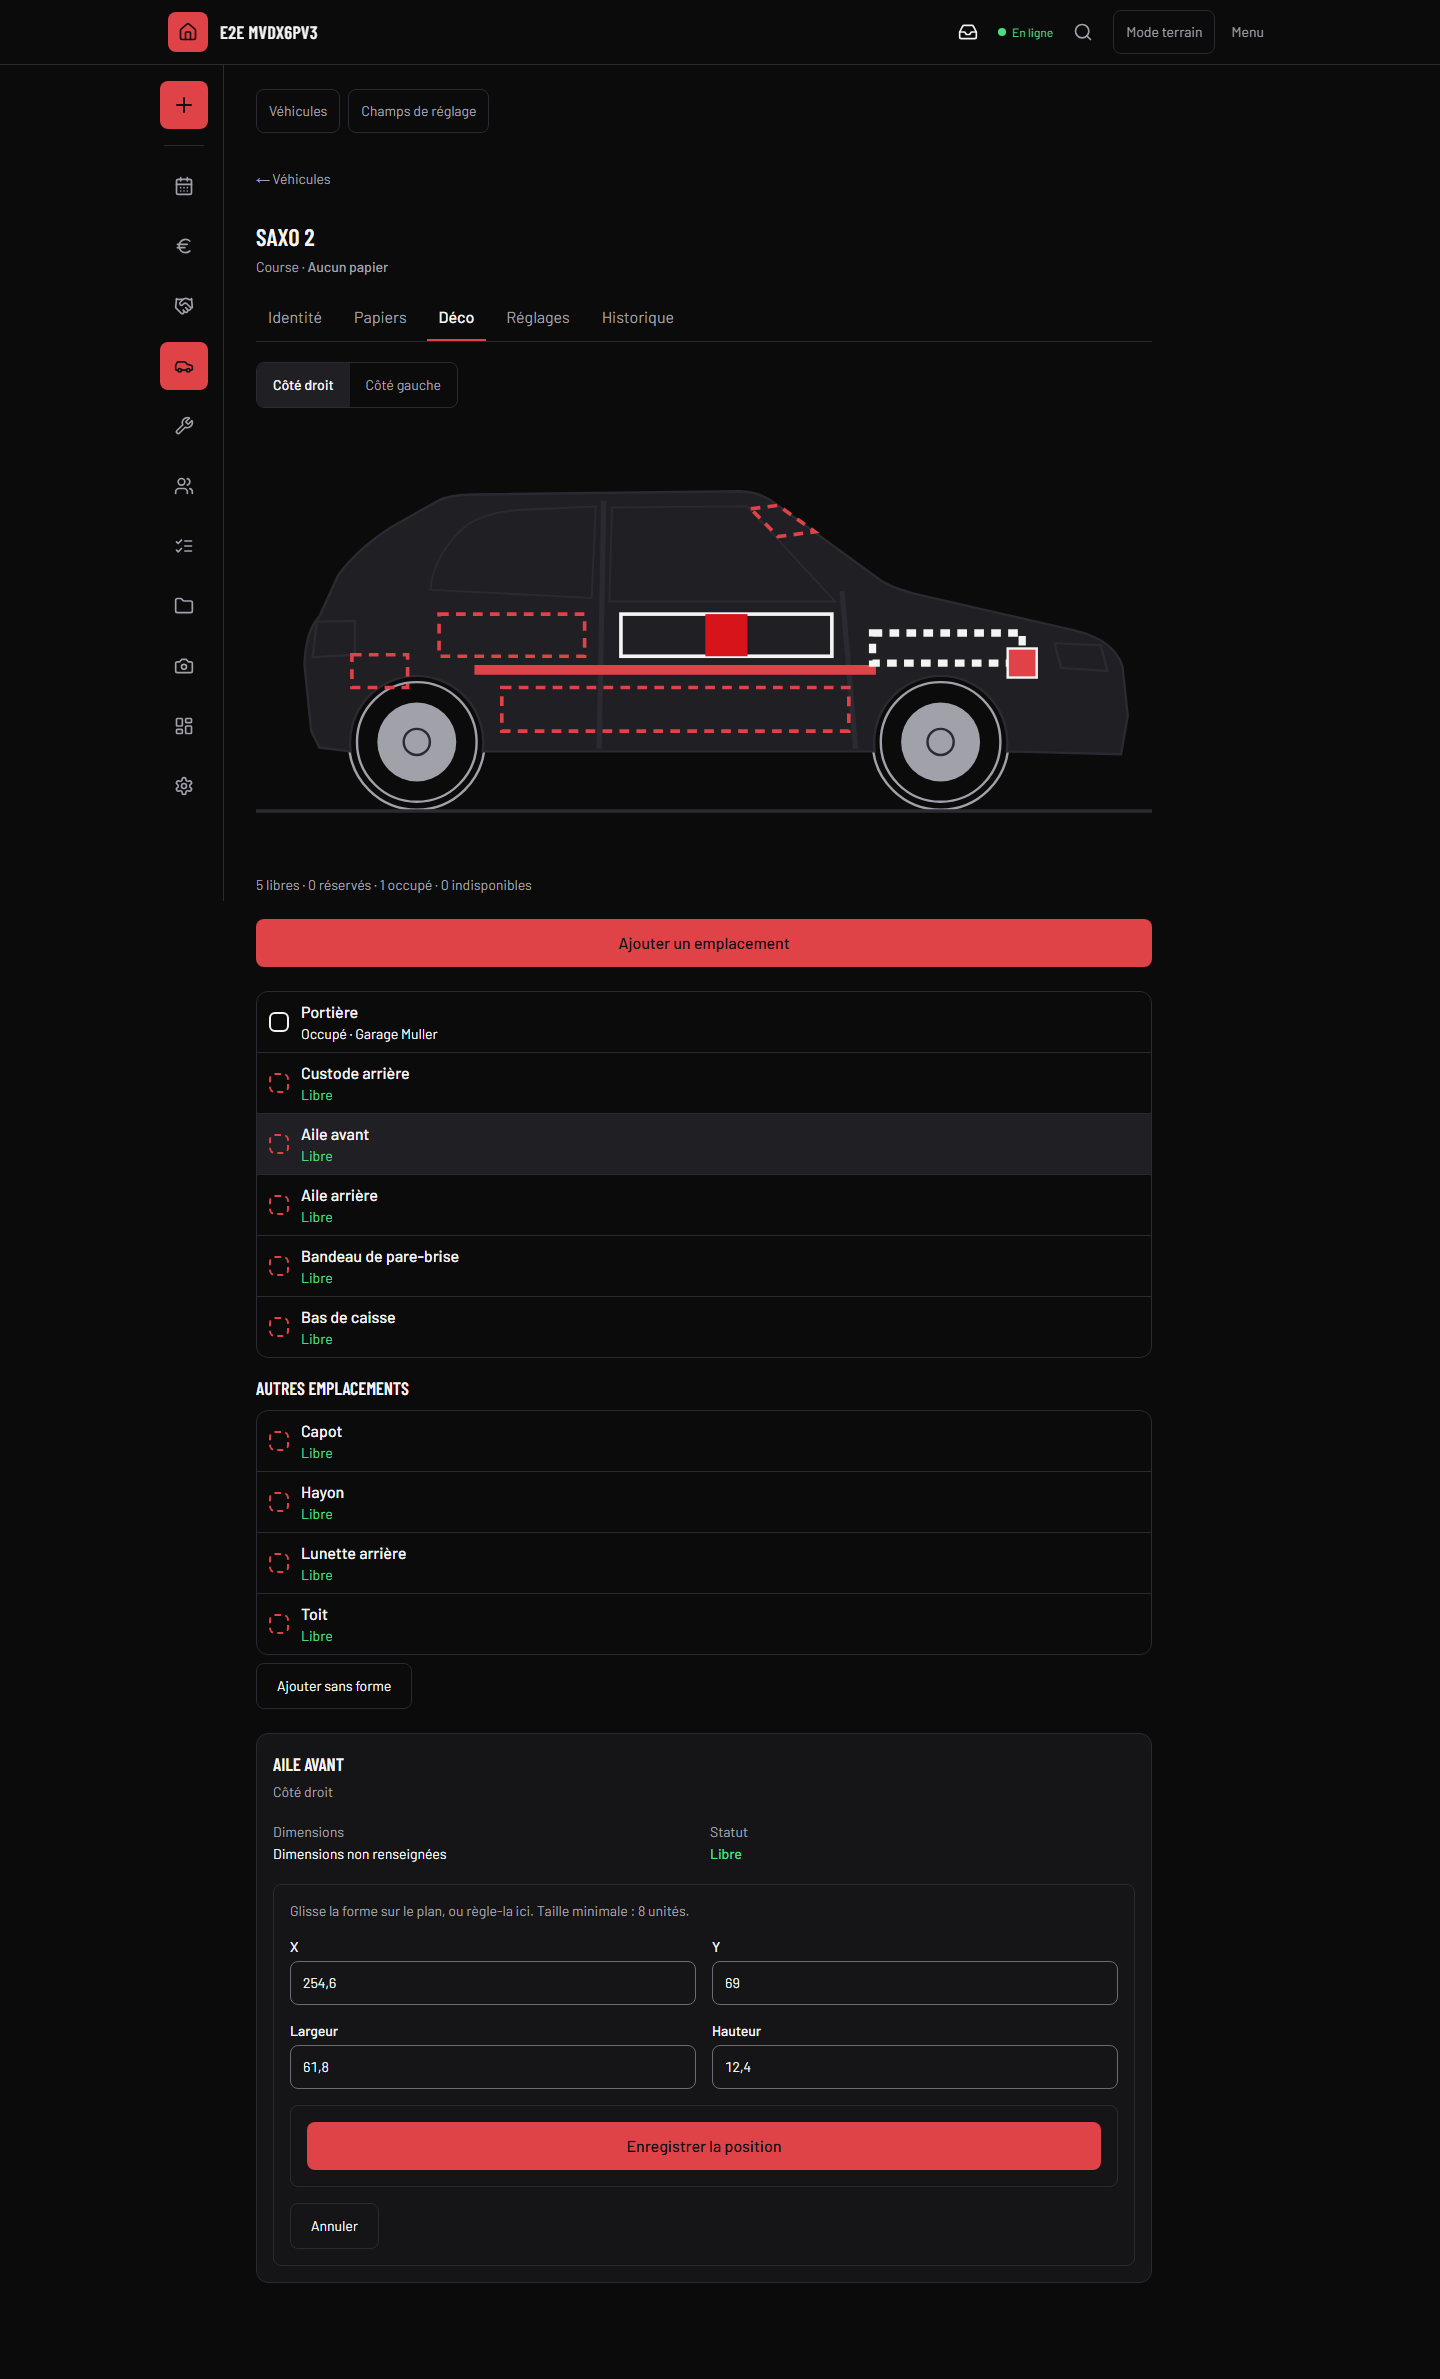
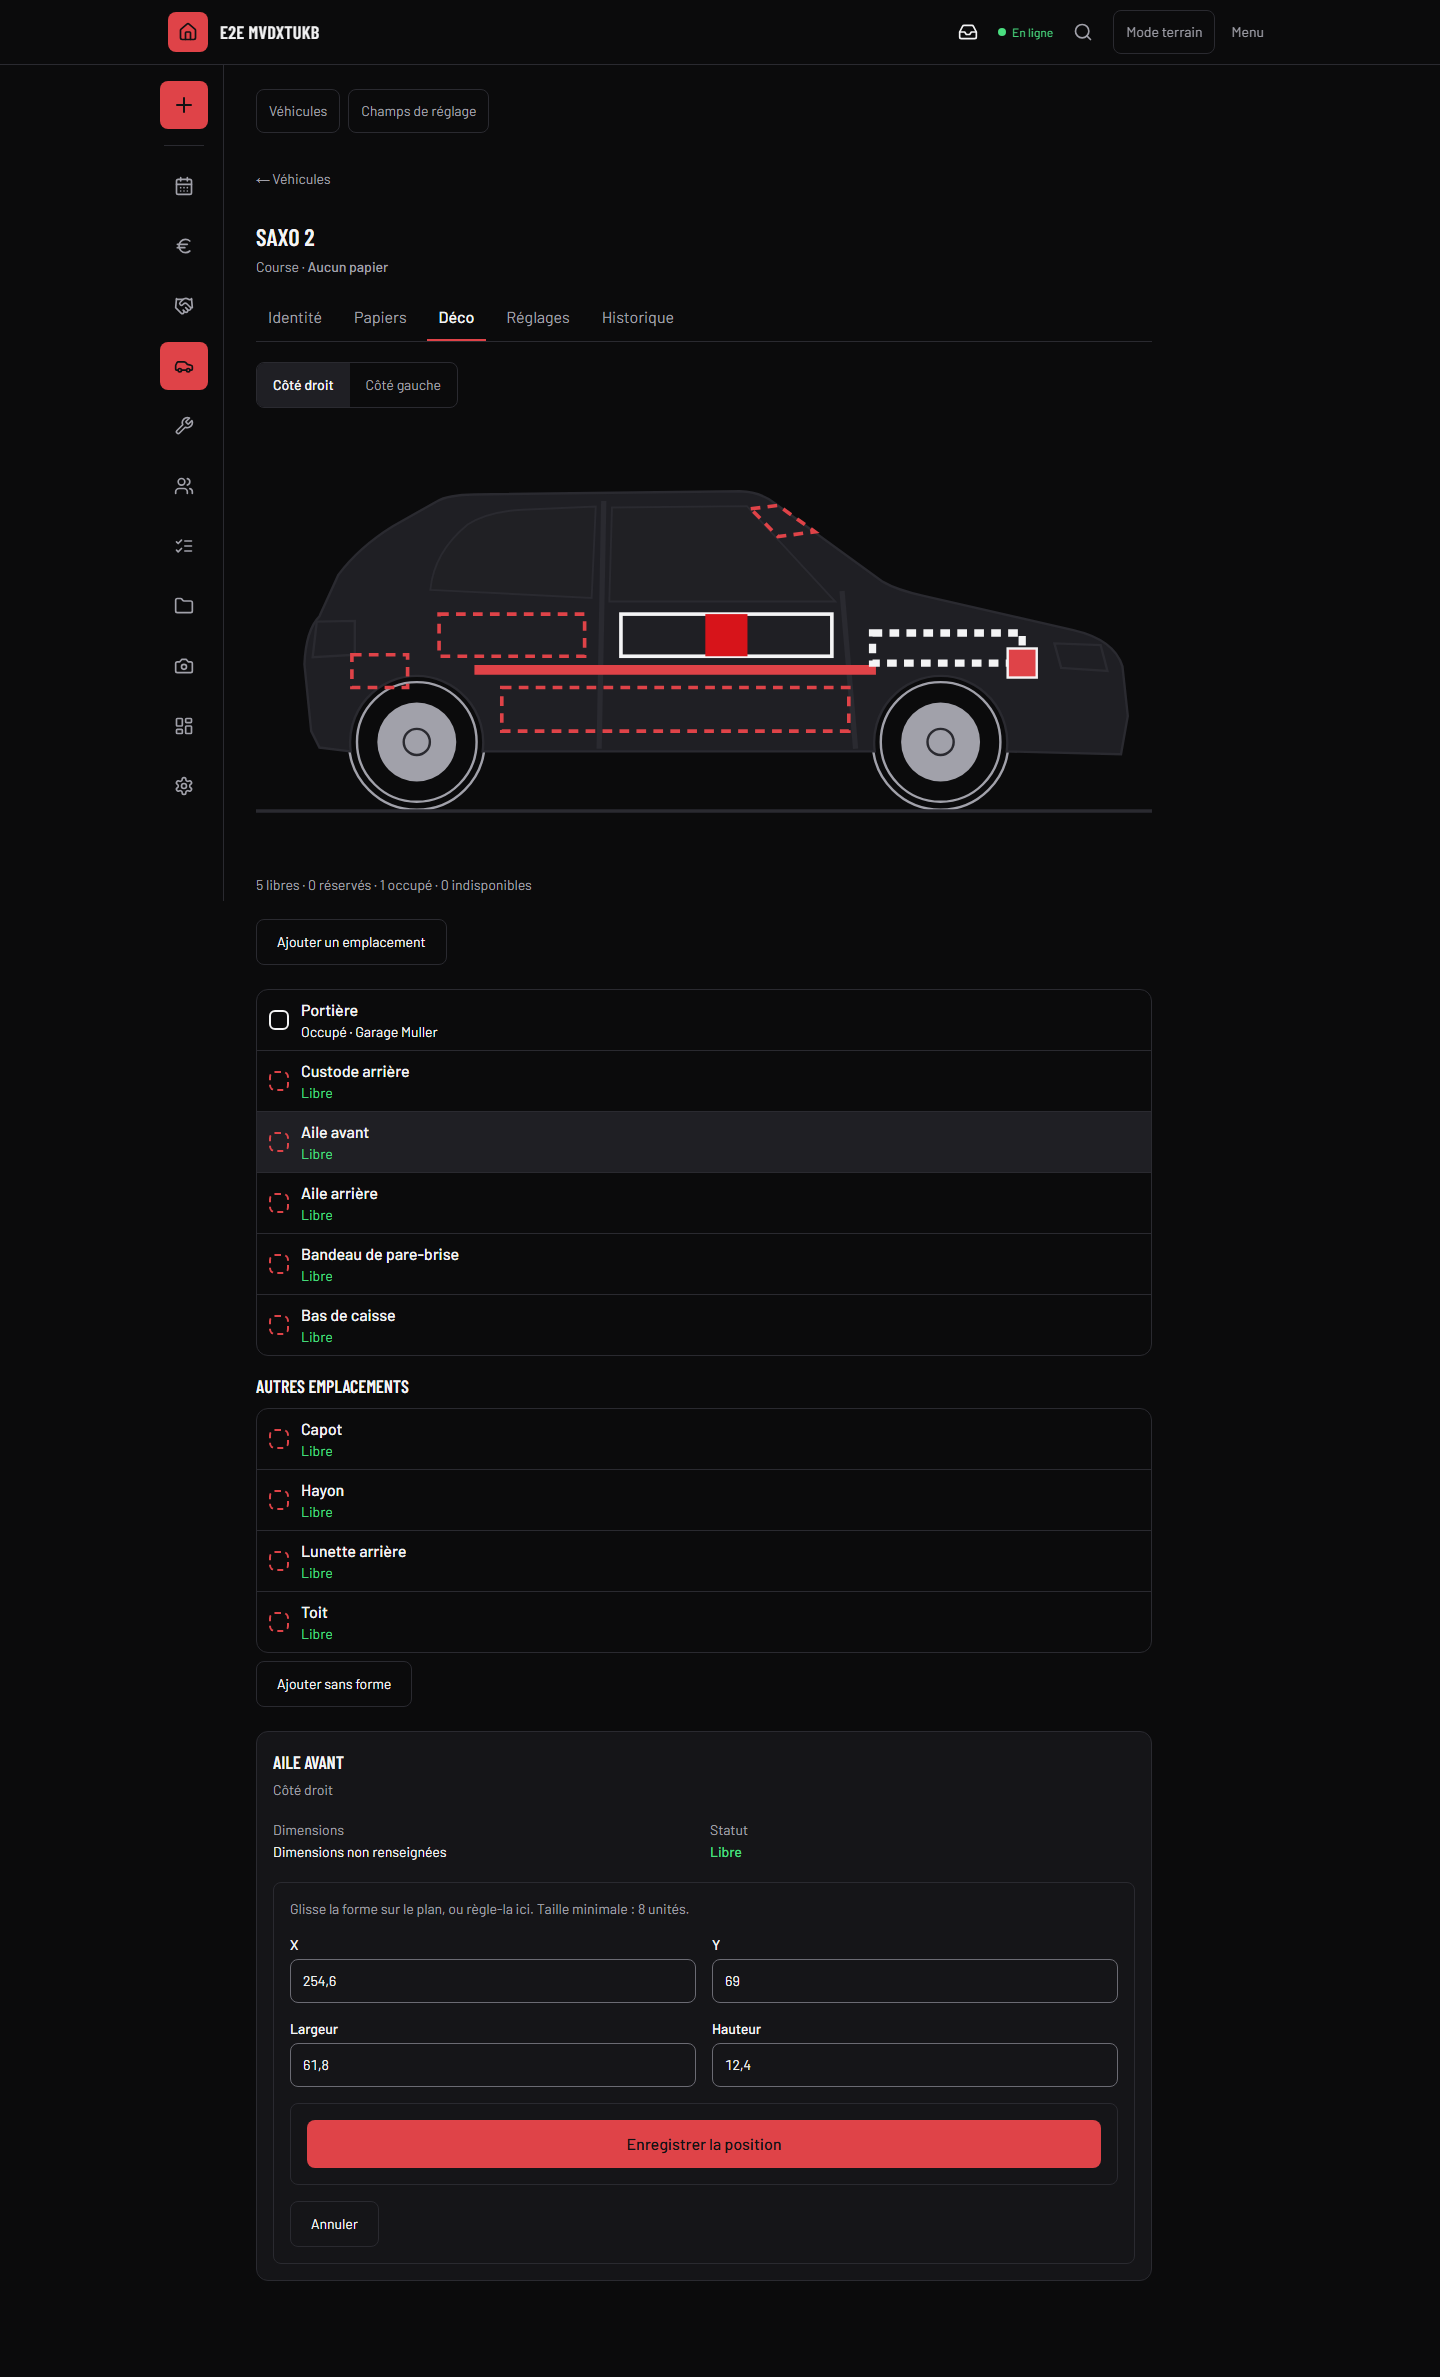
Plan de déco : retouches du brief 3.5 (point 0)
- Boutons « Ajouter un emplacement » et « Déplacer ou redimensionner » : pleine largeur sur téléphone, largeur du texte à partir de sm.
- Tiroir sur téléphone : le nom de l'emplacement et la fermeture restent en haut, seul le contenu défile.
- Capture voiture-deco-tiroir-360 refaite sur l'écran visible ; captures pose, déplacement et thème clair mises à jour (boutons).

diff --git a/src/apps/voiture/composants/deco-plan.tsx b/src/apps/voiture/composants/deco-plan.tsx
@@ -9,7 +9,7 @@ import { usePathname, useRouter, useSearchParams } from "next/navigation"
 
 import { Sheet, SheetContent, SheetDescription, SheetHeader, SheetTitle } from "@/components/ui/sheet"
 import type { Resultat } from "@/core/sdk/actions-serveur"
-import { BOUTON, BOUTON_SECONDAIRE } from "@/lib/classes-formulaire"
+import { BOUTON_SECONDAIRE } from "@/lib/classes-formulaire"
 
 import type { FormeEmplacement, Gabarit } from "../gabarits/types"
 import { ajouterEmplacementAction } from "../actions"
@@ -191,12 +191,13 @@ function DecoInteractif({ ficheId, nomVehicule, gabarit, emplacements, peutEcrir
 
       {!ordinateur && (
         <Sheet open={visible !== null} onOpenChange={(ouvert) => !ouvert && fermerPanneau()}>
-          <SheetContent side="bottom" className="max-h-[85vh] overflow-y-auto border-bordure bg-surface text-texte">
-            <SheetHeader>
-              <SheetTitle className="text-left text-texte-discret">Emplacement</SheetTitle>
+          <SheetContent side="bottom" className="flex max-h-[85vh] flex-col overflow-hidden border-bordure bg-surface text-texte">
+            {/* En-tête fixe : le nom et la fermeture restent visibles, le contenu seul défile. */}
+            <SheetHeader className="shrink-0">
+              <SheetTitle className="pr-10 text-left">{visible?.nom ?? "Emplacement"}</SheetTitle>
               <SheetDescription className="sr-only">Détails de l'emplacement choisi et actions disponibles.</SheetDescription>
             </SheetHeader>
-            {panneau}
+            <div className="min-h-0 flex-1 overflow-y-auto">{panneau}</div>
           </SheetContent>
         </Sheet>
       )}
@@ -280,7 +281,7 @@ function AjouterEmplacement({
       <input type="hidden" name="nom" value="Nouvel emplacement" />
       <input type="hidden" name="vue" value={vue} />
       {forme && <input type="hidden" name="forme" value={JSON.stringify(forme)} />}
-      <button type="submit" disabled={enCours} className={vue === "droite" ? BOUTON : BOUTON_SECONDAIRE + " self-start"}>
+      <button type="submit" disabled={enCours} className={`${BOUTON_SECONDAIRE} w-full sm:w-auto sm:self-start`}>
         {libelle}
       </button>
       {resultat && !resultat.ok && (

diff --git a/e2e/voiture-deco.spec.ts b/e2e/voiture-deco.spec.ts
@@ -20,6 +20,11 @@ async function sansDefilementHorizontal(page: Page): Promise<void> {
   expect(deborde, "défilement horizontal sur la page").toBe(false)
 }
 
+// Capture de l'écran visible (fullPage: false), pour le tiroir : son en-tête doit y être, pas seulement le contenu.
+async function capturerEcran(page: Page, nom: string): Promise<void> {
+  await page.screenshot({ path: path.join(DOSSIER, nom), fullPage: false })
+}
+
 // Capture pleine page : éléments fixes masqués, comme dans voiture.spec.ts, sauf le tiroir (role dialog), qui est
 // le sujet de la capture et que le test retrouve ensuite.
 async function capturer(page: Page, nom: string): Promise<void> {
@@ -204,7 +209,7 @@ test("responsable, téléphone 360 px : la liste ouvre le tiroir, sans défileme
   await expect(tiroir.getByText("Réservé", { exact: true })).toBeVisible()
   await expect(tiroir.getByText("Garage Muller", { exact: true })).toBeVisible()
   await expect(page.getByText("1 réservé")).toBeVisible()
-  await capturer(page, "voiture-deco-tiroir-360.png")
+  await capturerEcran(page, "voiture-deco-tiroir-360.png")
   await page.keyboard.press("Escape")
   await expect(tiroir).toHaveCount(0)
   await sansDefilementHorizontal(page)

diff --git a/src/apps/voiture/composants/deco-panneau.tsx b/src/apps/voiture/composants/deco-panneau.tsx
@@ -173,7 +173,7 @@ export function PanneauEmplacement(props: PanneauEmplacementProps) {
           )}
 
           {formeOriginale && (
-            <button type="button" className={BOUTON_SECONDAIRE} onClick={props.onDemarrerDeplacement}>
+            <button type="button" className={`${BOUTON_SECONDAIRE} w-full sm:w-auto sm:self-start`} onClick={props.onDemarrerDeplacement}>
               Déplacer ou redimensionner
             </button>
           )}
